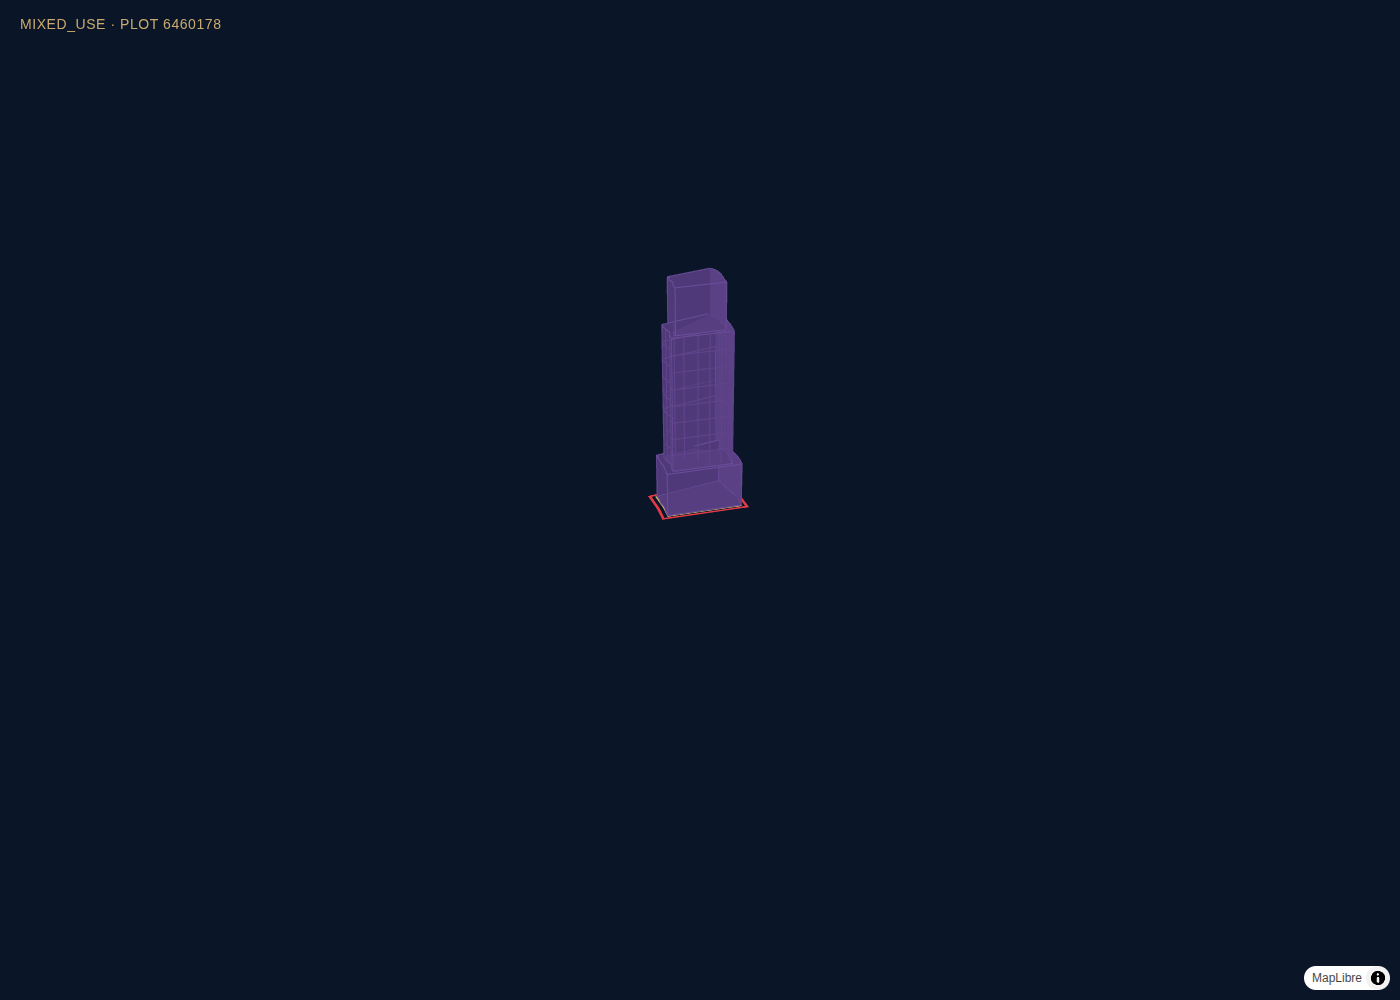
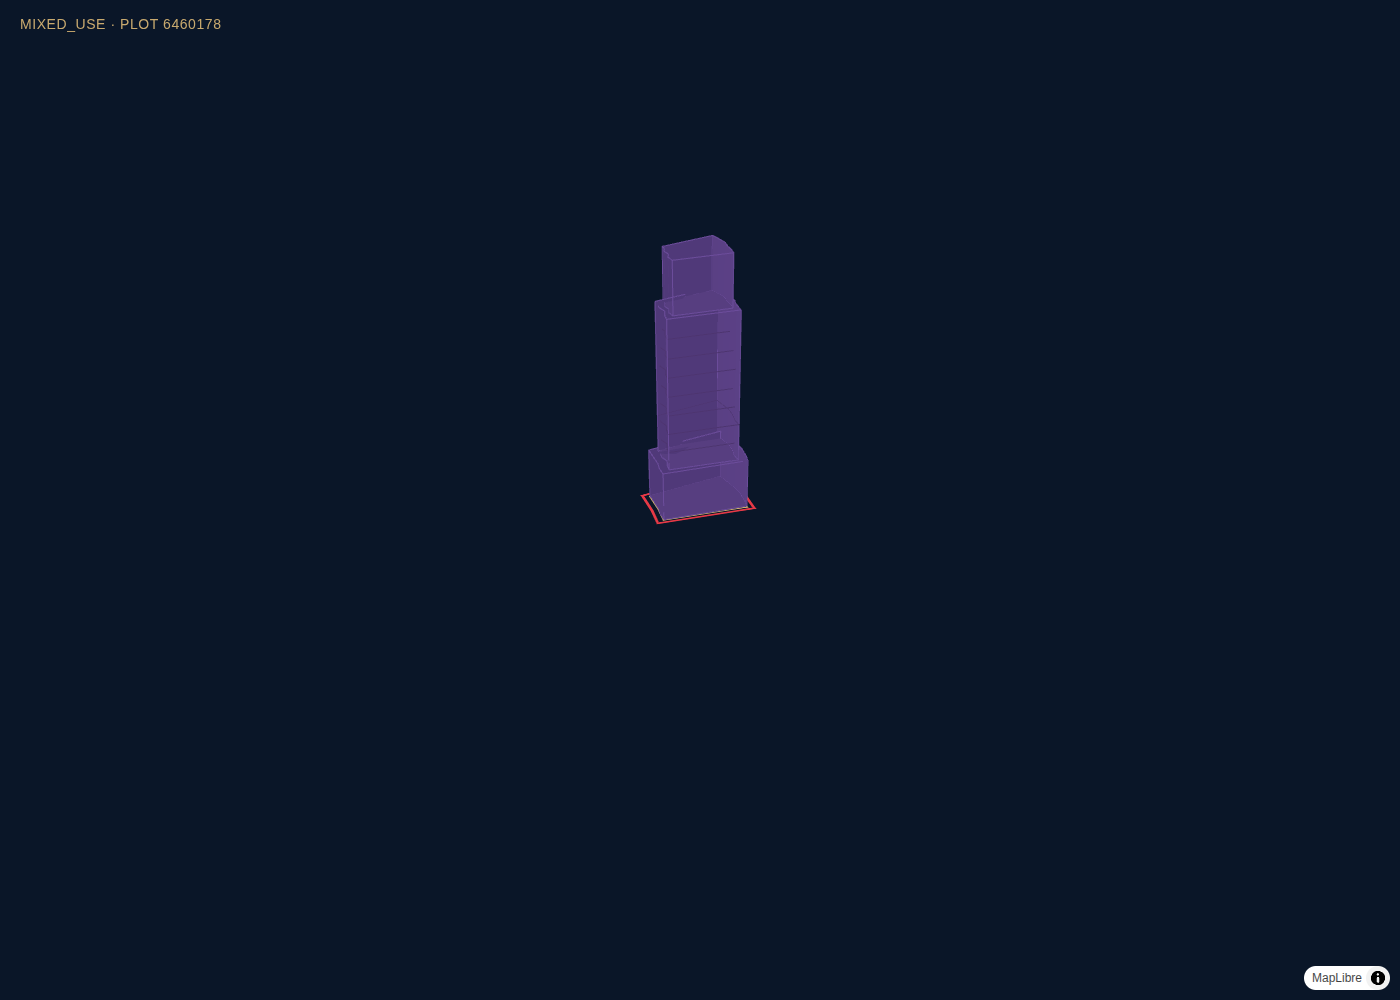
style(archetypes): variant C as default — clean horizontal floors, no ribs
Founder ratified variant C for ALL types: edges = body legend hex, horizontal
floor bands ×0.5 darker, NO vertical ribs (clean floors, no wireframe cage).
Set as the default in resolveLineVariant (?lv= still overrides A/B/D/E for
future tuning). Auto-applies to every type via the shared b.colorHex logic.
Verified: residential = solid green + clean horizontal floors; mixed-use =
solid purple + clean floors — no vertical cage.

Body opaque legend colour unchanged. tsc clean, build green. Not merged; tiles untouched.

Changed region(s): [[0.4607, 0.217, 0.5529, 0.527]]

diff --git a/src/lib/archetypes/archetype-layer.ts b/src/lib/archetypes/archetype-layer.ts
@@ -47,10 +47,11 @@ export interface ArchetypeLayerController {
 
 const GREY = new THREE.Color(0x7a7a7a);
 
-// Line-texture variant (founder A/B/C/D/E review, 2026-06-14). Read from the
-// `?lv=` URL param; default = the current delicate tonal treatment so prod is
-// unchanged. Each field is a multiplier on the body's legend colour, "gold"
-// (#C8A96E brand accent), or null (omit that line family).
+// Line-texture style. Founder ratified VARIANT C (2026-06-14) as the default for
+// ALL types: edges = body legend hex, horizontal floor bands ×0.5 darker, NO
+// vertical ribs — clean floors, no wireframe cage. The `?lv=` URL param still
+// overrides for future tuning (A/B/D/E). Each field is a multiplier on the body
+// legend colour, "gold" (#C8A96E), or null to omit that line family.
 type LineVariant = { edge: number | "gold"; band: number | "gold" | null; rib: number | "gold" | null; ribSpacing: number };
 function resolveLineVariant(): LineVariant {
   let lv = "";
@@ -58,10 +59,10 @@ function resolveLineVariant(): LineVariant {
   switch (lv) {
     case "A": return { edge: 1.2, band: 1.4, rib: 1.4, ribSpacing: 14 };  // floors lighter — highlight
     case "B": return { edge: 0.5, band: 0.5, rib: 0.5, ribSpacing: 14 };  // floors darker — shadow
-    case "C": return { edge: 1.0, band: 0.5, rib: null, ribSpacing: 14 }; // horizontal floors only
     case "D": return { edge: 1.0, band: null, rib: 1.3, ribSpacing: 18 }; // vertical ribs only
     case "E": return { edge: 1.0, band: "gold", rib: "gold", ribSpacing: 16 }; // brand gold accent
-    default:  return { edge: 1.0, band: 0.8, rib: 0.8, ribSpacing: 14 };  // current tonal
+    case "C":
+    default:  return { edge: 1.0, band: 0.5, rib: null, ribSpacing: 14 };  // C — clean horizontal floors (DEFAULT)
   }
 }
 const GOLD_LINE = new THREE.Color(0xc8a96e);
